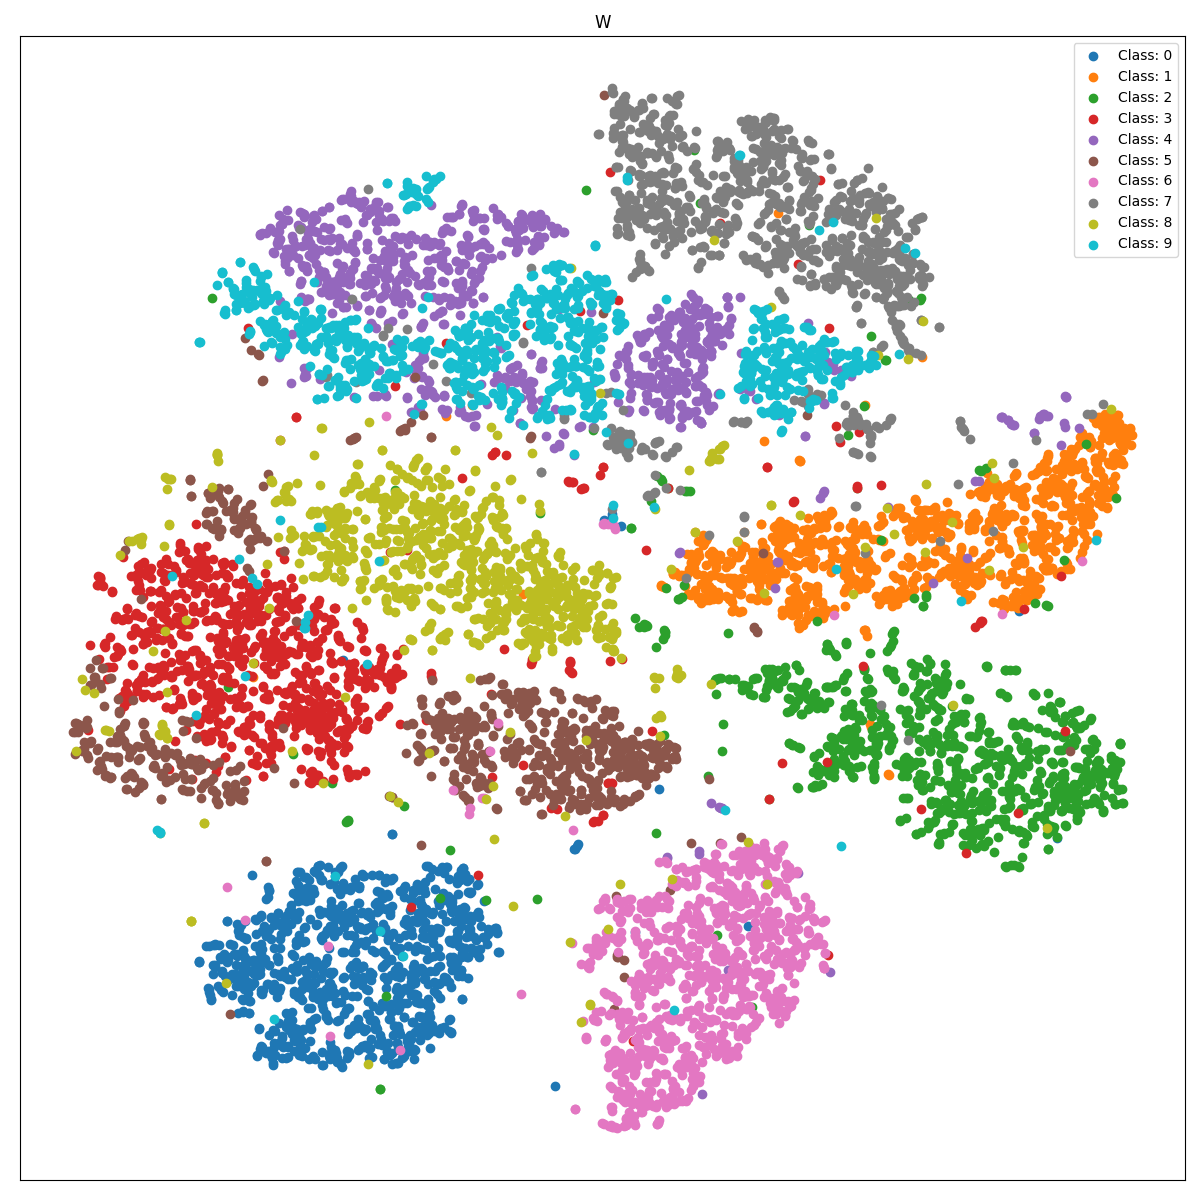
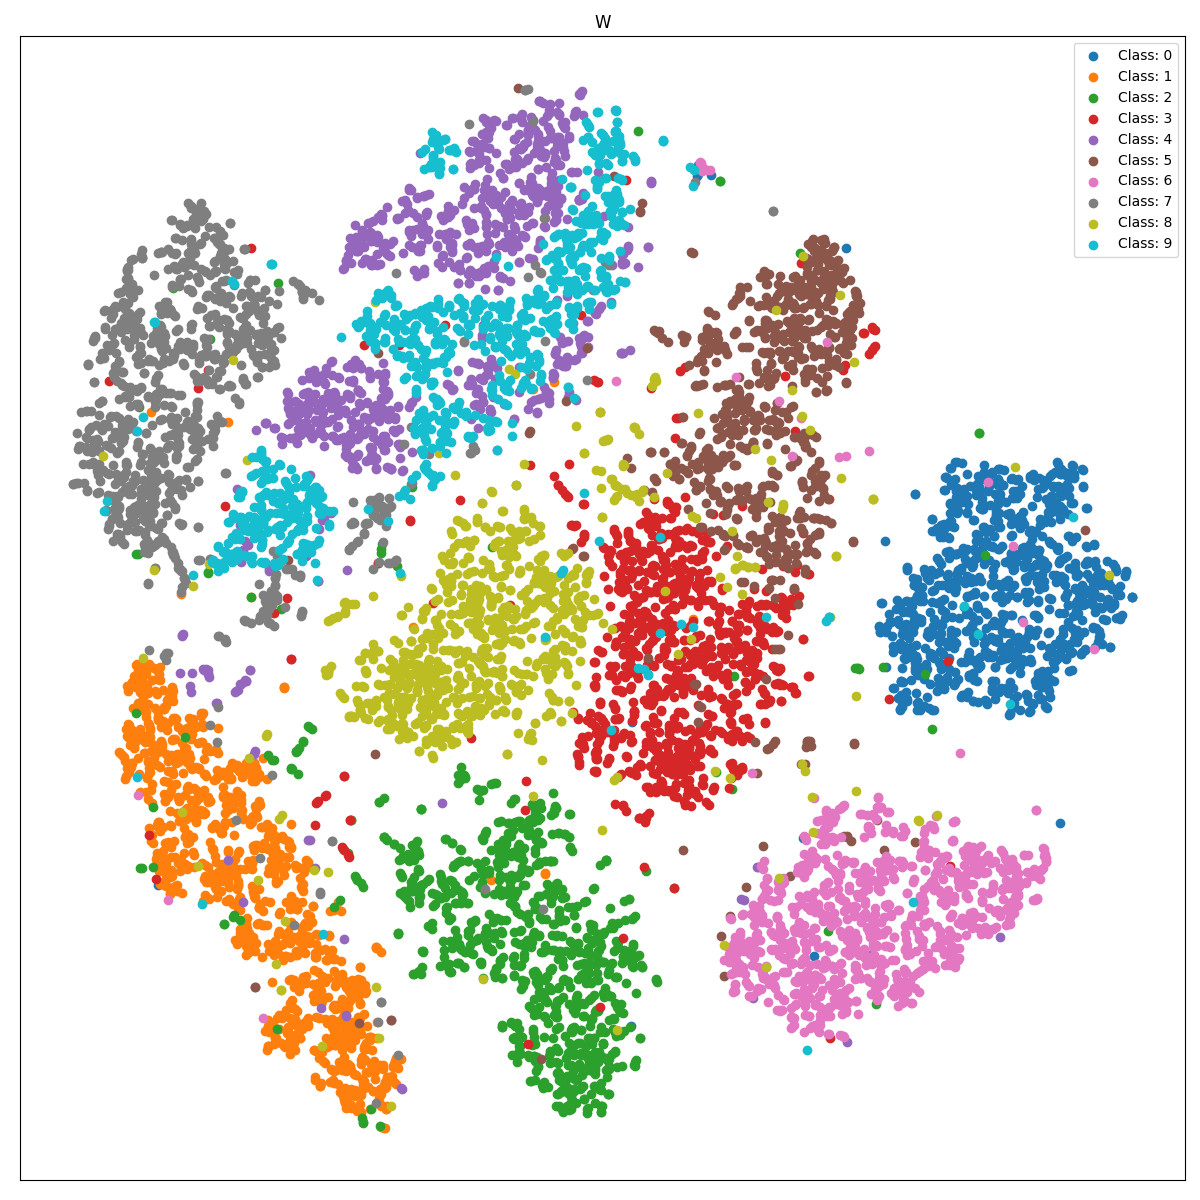
Added umap

diff --git a/bin/main.py b/bin/main.py
@@ -1,6 +1,6 @@
 import utils
 from data_preprocessing import mnist
-from data_embedding import tsne
+from data_embedding import tsne, umap
 
 
 
@@ -10,5 +10,6 @@ if __name__ == '__main__':
 
     # mnist
     mnist_values, mnist_labels = mnist.visualize_mnist(size)
-    tsne.tsne(mnist_values, mnist_labels)
+    tsne.embed(mnist_values, mnist_labels)
+    umap.embed(mnist_values, mnist_labels)
 

diff --git a/bin/data_embedding/tsne.py b/bin/data_embedding/tsne.py
@@ -1,6 +1,6 @@
 from sklearn.manifold import TSNE
 import utils
 
-def tsne(dataset, labels):
+def embed(dataset, labels):
     output = TSNE(n_components=2, metric='euclidean', perplexity=30).fit_transform(dataset)
     utils.save_plot_2d_scatter(output, labels, "mnist_tsne.png")

diff --git a/bin/data_embedding/umap.py b/bin/data_embedding/umap.py
@@ -1,0 +1,6 @@
+import umap
+import utils
+
+def embed(dataset, labels):
+    output = umap.UMAP().fit_transform(dataset)
+    utils.save_plot_2d_scatter(output, labels, "mnist_umap.png")
